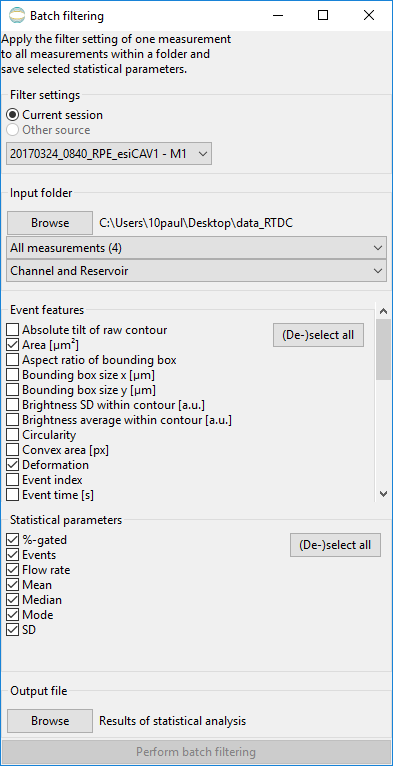
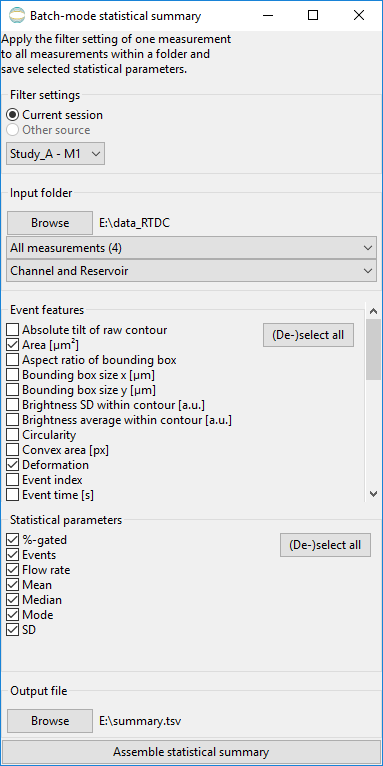
docs: update screenshot of batch statistics and increase tool width

diff --git a/shapeout/gui/batch.py b/shapeout/gui/batch.py
@@ -134,7 +134,9 @@ class BatchFilterFolder(wx.Frame):
 
         panel.SetSizer(self.topSizer)
         self.topSizer.Fit(self.panel)
-        self.SetMinSize(self.topSizer.GetMinSizeTuple())
+        minsize = self.topSizer.GetMinSizeTuple()
+        # increase minimum width by 100
+        self.SetMinSize((minsize[0] + 100, minsize[1]))
 
         self.OnRadioHere()
         #Icon
